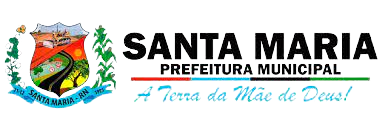
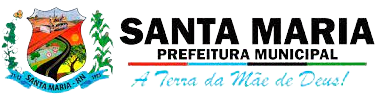
doadores

diff --git a/styles/globals.scss b/styles/globals.scss
@@ -838,7 +838,7 @@ section {
 		flex-direction: column;
 		img {
 			max-height: 5.5rem;
-			padding: 1.25rem;
+			padding: 1.5rem;
 		}
 	}
 }
